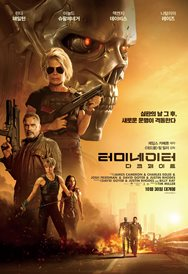
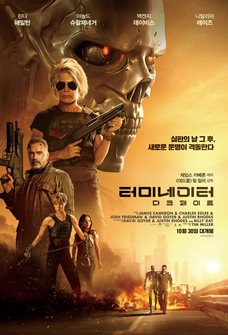
터미네이터 이미지 수정, 예매 좌석 title  css 추가

diff --git a/src/main/webapp/resources/css/reserve.css b/src/main/webapp/resources/css/reserve.css
@@ -1,16 +1,20 @@
 @charset "utf-8";
 
+.reserve-wrap {
+  margin-bottom: 120px;
+}
+
 .ticket-title {
   position: relative;
   text-align: center;
   font-size: 30px;
   font-weight: 500;
-  padding: 40px 0;
+  padding: 80px 0;
 }
 
 /* 영화 예매정보 */
 .ticket-info-area {
-  background: #2b2e35;
+  background: #666;
 }
 
 .ticket-info {
@@ -27,7 +31,7 @@
   padding-left: 2%;
   min-height: 122px;
   font-size: 16px;
-  border-right: 1px solid #1d1d1c;
+  border-right: 1px solid #8b8b8b;
   box-shadow: 1px 0 0 #41434a;
 }
 
@@ -207,25 +211,91 @@
   font-size: 13px;
   color: #666;
 }
-.all-seats{
-   text-align:center;
+
+.all-seats {
+  margin-top: 40px;
+  text-align: center;
 }
+
 .all-seats>li>button {
   display: inline-block;
   position: relative;
-  width: 24px;
-  height: 24px;
+  width: 30px;
+  height: 30px;
   margin: 2px;
   background: #848484;
   color: #fff;
+  font-size: 14px;
   text-align: center;
-  line-height: 24px;
+  line-height: 30px;
 }
+
 .all-seats>li>button.selected {
-   background:#b60000;
+  background: #b60000;
 }
-.completed{
-   background:#d2d2d2 url(/resources/img/bg_disabled.gif) 50% 50% no-repeat !important;
-    text-indent: -9999px;
-    cursor: default;
-}   
+
+.seat-title{
+  position: relative;
+  display:inline-block;
+  margin-right: 5px;
+  color: #d23a3a;
+  font-size: 20px;
+  vertical-align: middle;
+}
+
+.seat-title::after{
+	content: "";
+	display: block;
+	width: 100%;
+	height: 2px;
+	background: #d23a3a;	
+}
+
+.completed {
+  background: #d2d2d2 url(/resources/img/bg_disabled.gif) 50% 50% no-repeat !important;
+  text-indent: -9999px;
+  cursor: default;
+}
+
+.screen {
+  text-align: center;
+  background: #f5f5f5;
+  padding: 60px 0;
+}
+
+.screen-title {
+  color: #d0d0d0;
+  font-size: 80px;
+}
+
+.screen-stage {
+  display: none;
+  font-size: 18px;
+  background: #bebdbd;
+  color: #e5e5e5;
+  padding: 10px 202px;
+}
+
+.reserve-note {
+  margin: 50px 0;
+  border: 1px solid #d6d6d6;
+}
+
+.precautions {
+  padding: 20px 0 20px 12px;
+  background: #dfdfdf;
+  font-size: 16px;
+}
+
+.precautions-content {
+  padding: 20px;
+  font-size: 14px;
+}
+
+.reserve-rule {
+  margin-top: 20px;
+}
+
+.payment-area {
+  text-align: center;
+}
